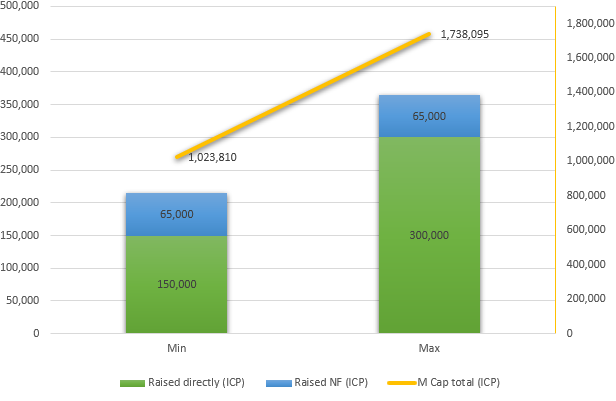
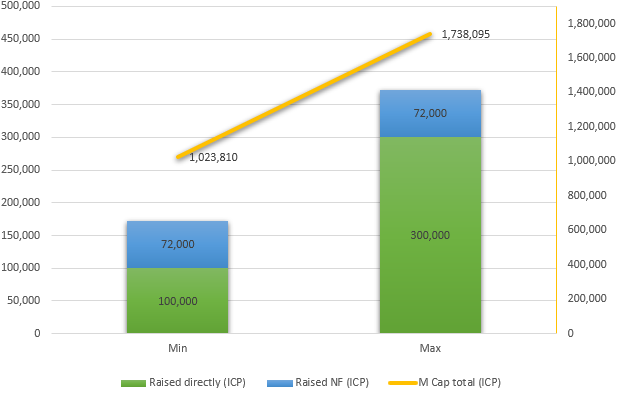
fix: params

diff --git a/whitepaper/tokenomics/mcap.md b/whitepaper/tokenomics/mcap.md
@@ -10,8 +10,8 @@ With 21% of the total supply for sale, the market cap range will be:
 
 | Raised directly (ICP) | Raised NF (ICP) | M Cap (ICP) | M Cap (USD) |
 | --------------------: | --------------: | --------------: | --------------: |
-| 150,000 | 65,000 | 399,286 | $ 5,989,290 |
-| 300,000 | 65,000 | 677,857 | $ 10,167,855 |
+| 100,000 | 72,000 | 399,286 | $4,791,428 |
+| 300,000 | 72,000 | 677,857 | $8,134,285 |
 
 ![valuation](./img/mcap-circ.png)
 
@@ -19,8 +19,8 @@ With 21% of the total supply for sale, the market cap range will be:
 
 | Raised directly (ICP) | Raised NF (ICP) | M Cap (ICP) | M Cap (USD) |
 | --------------------: | --------------: | --------------: | --------------: |
-| 150,000 | 65,000 | 1,023,810 | $ 15,357,135 |
-| 300,000 | 65,000 | 1,738,095 | $ 26,071,425 |
+| 100,000 | 72,000 | 1,023,810 | $12,285,714 |
+| 300,000 | 72,000 | 1,738,095 | $20,857,142 |
 
 ![valuation](./img/mcap-total.png)
 
@@ -30,5 +30,5 @@ Notes:
 1. For the circulating supply calculation, the ICPCoins formula was used (at genesis):  
 <small>**circulating_supply = total_supply - treasury** (see: [defi_aggregator](https://github.com/Neutrinomic/defi_aggregator/blob/4659c3592ababa5e8c94257e26161773e43090df/src/main.mo#L1162))</small>
 2. For the fully diluted calculation, the total supply at genesis was used
-3. Considering a ICP/USD ratio of $ 15,00
-4. Assuming 65,000 ICP as the Neuron Fund (NF) participation; however, this value can fluctuate daily and will only be known exactly when the swap ends.
+3. Considering a ICP/USD ratio of $ 12,00
+4. Assuming 72,000 ICP as the Neuron Fund (NF) participation; however, this value can fluctuate daily and will only be known exactly when the swap ends.

diff --git a/whitepaper/tokenomics/treasury.md b/whitepaper/tokenomics/treasury.md
@@ -20,7 +20,7 @@ As with any organization, the DAO will need to compensate its team of collaborat
 
 Each proposal should outline the activities, milestones, and resources required to achieve the goals. The initial plan is to propose budget allocations every 6 months.
 
-The initial strategy involves allocating 60% of the ICP treasury over a **span of four years** to support the development and maintenance of the platform, marketing campaigns, and creation of games and NFTs owned by the DAO. We plan to allocate 25% in the first year to drive the initial growth of the app with the team expansion, gradually reducing to 20%, 10%, and finally 5% in the fourth year. By then, we hope that the revenue generated from app fees and DAO-owned games and NFTs will cover the ongoing expenses.
+The initial strategy involves allocating 80% of the ICP treasury over a **span of four years** to support the development and maintenance of the platform, marketing campaigns, and creation of games and NFTs owned by the DAO. We plan to allocate 30% in the first year to drive the initial growth of the app with the team expansion, gradually reducing to 25%, 15%, and finally 10% in the fourth year. By then, we hope that the revenue generated from app fees and DAO-owned games and NFTs will cover the ongoing expenses.
 
 ### Championships
 

diff --git a/whitepaper/tokenomics/governance.md b/whitepaper/tokenomics/governance.md
@@ -24,5 +24,5 @@ After the decentralization swap is finished, the team will submit proposals to t
 - Establish of a Neural Arena DAO Association in Switzerland to provide us an official recognition, protect our community and team, empowering the platform to operate with confidence, credibility, and a robust legal framework.
 - Contract an auditing firm to do a complete code review.
 - Motions to list NAT in crypto price data sites, such as CoinMarkCap and Coingecko.
-- Lock 87.5% of the ICP treasury on 6 NNS neurons, with ICP being staked as follows: 12.5% for 6 months, 10% for 12 months, 10% for 18 months, 10% for 24 months, 5% for 36 months, and 40% for 48 months.
+- Lock 85.0% of the ICP treasury on 6 NNS neurons, with ICP being staked as follows: 15.0% for 6 months, 12.5% for 12 months, 12.5% for 18 months, 15% for 24 months, 10% for 36 months, and 20% for 48 months.
 - Request ICP to cover the expenses budget for operations, compensation, and team expansion, after submitting a detailed proposal.

diff --git a/whitepaper/tokenomics/price.md b/whitepaper/tokenomics/price.md
@@ -8,11 +8,11 @@ With 21% of the total supply for sale, the price range of each NAT token will be
 
 | Raised directly (ICP) | Raised NF (ICP) | Token price (ICP) | Token price (USD) |
 | --------------------: | --------------: | ----------------: | ----------------: |
-| 150,000 | 65,000 | 0.010 | $ 0.15 |
-| 300,000 | 65,000 | 0.017 | $ 0.25 |
+| 100,000 | 72,000 | 0.010 | $ 0.12 |
+| 300,000 | 72,000 | 0.017 | $ 0.20 |
 
 ![token price](./img/price.png)
 
 Notes: 
-1. Considering a ICP/USD ratio of $ 15,00
-2. Assuming 65,000 ICP as the Neuron Fund (NF) participation; however, this value can fluctuate daily and will only be known exactly when the swap ends.
+1. Considering a ICP/USD ratio of $ 12,00
+2. Assuming 72,000 ICP as the Neuron Fund (NF) participation; however, this value can fluctuate daily and will only be known exactly when the swap ends.

diff --git a/whitepaper/tokenomics/config.md b/whitepaper/tokenomics/config.md
@@ -16,9 +16,9 @@ The initial configuration parameters of the SNS decentralization sale/swap will 
 | Initial reward rate | 4% |
 | Final reward rate | 2% |
 | Reward transition duration | 4 years |
-| Ledger transaction fee (NAT) | 0.01 |
-| Proposal rejection fee (NAT) | 100 |
-| Minimum direct participation (ICP) | 150,000 |
+| Ledger transaction fee (NAT) | 0.001 |
+| Proposal rejection fee (NAT) | 10 |
+| Minimum direct participation (ICP) | 100,000 |
 | Maximal direct participation (ICP) | 300,000 |
 | Minimum individual participation (ICP) | 1 |
 | Maximal individual participation (ICP) | 100,000 |
